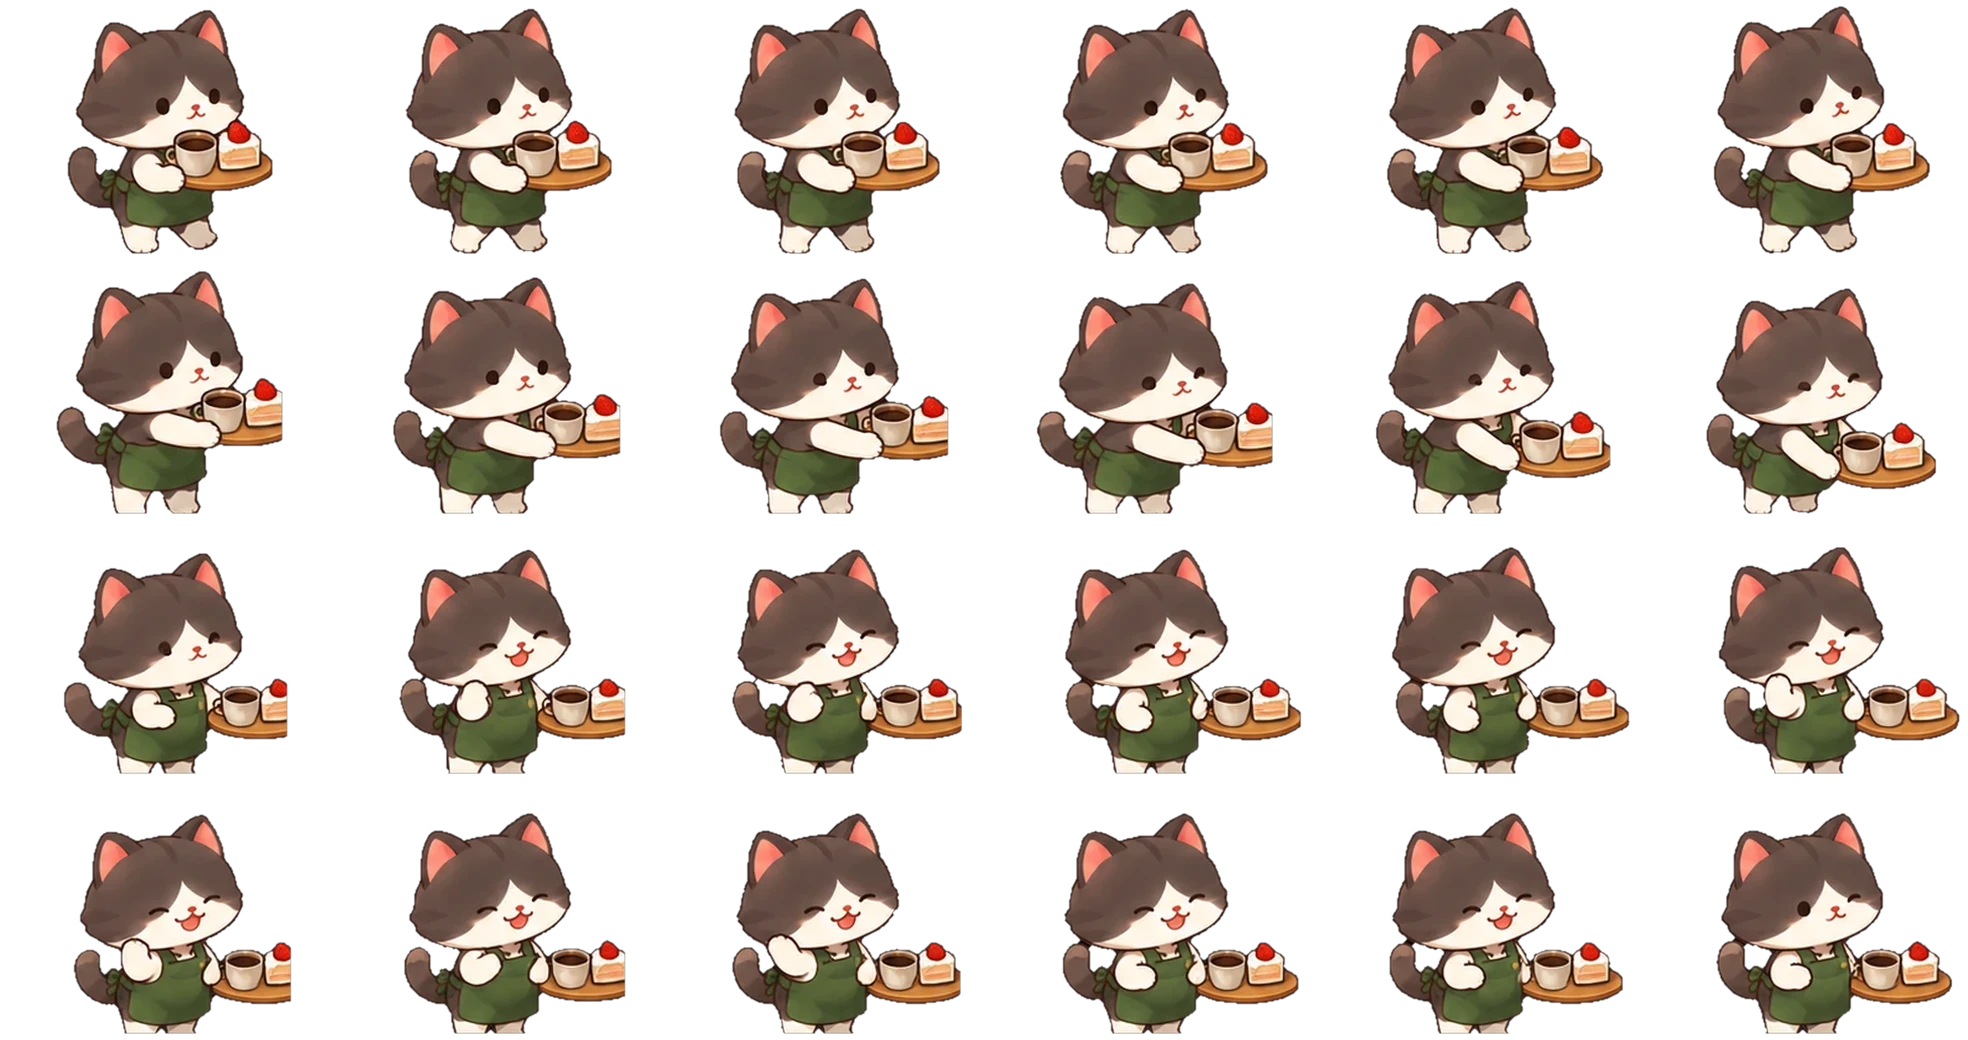
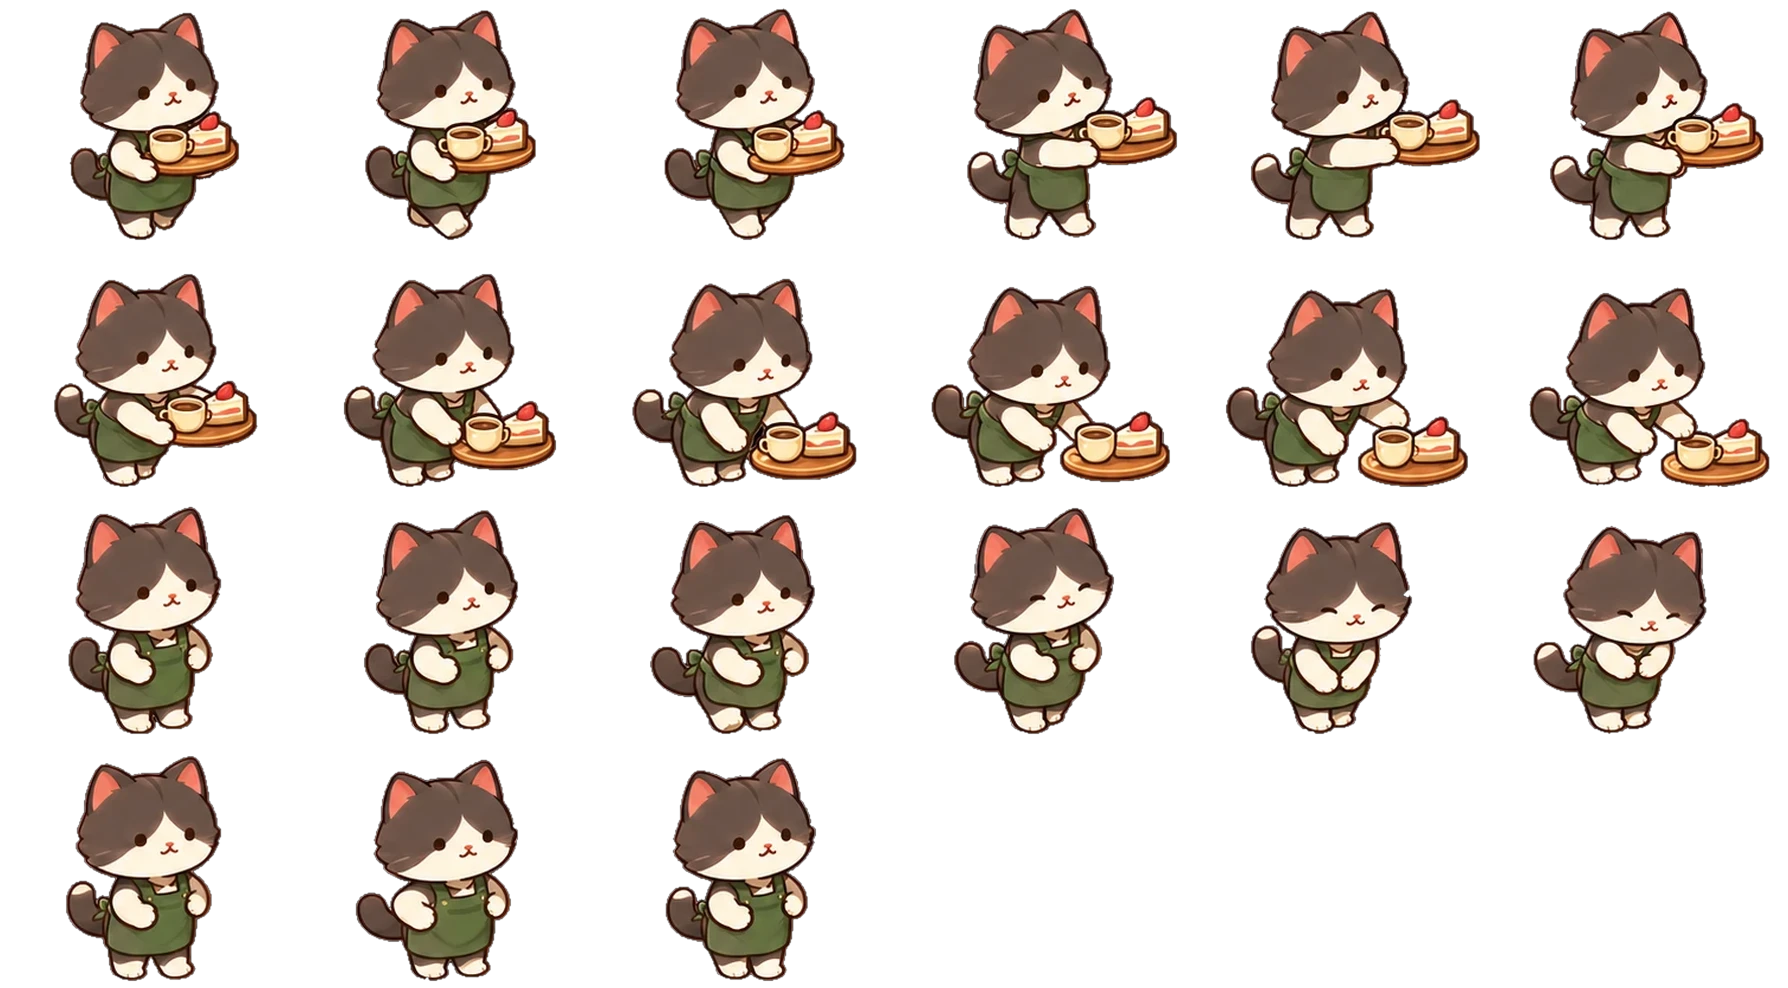
Waiter serving: new hand-over sheet (lower tray, put down, empty hands)
Claude-Session: https://claude.ai/code/session_012nmUwDLyP2qaqLbjtxBWJU

diff --git a/bakery-street-app/src/characters/sprites.js b/bakery-street-app/src/characters/sprites.js
@@ -19,7 +19,7 @@ export const SHEETS = {
   waiter: { frames: 56, cols: 10, w: 137, h: 164, crew: 'waiter', side: 24, sideEmpty: 34 },   // 0-7 tray walk (front), 8-15 tray walk (back), 16-23 empty-handed walk (front), 24-33 tray walk sideways (10-frame loop), 34-55 empty-handed walk sideways (22-frame loop); side frames face right
   chef_oven: { frames: 30, cols: 6, w: 384, h: 179, once: true },   // the chef puts the bread in the oven: one pass through 30 frames (progress = `hand`, 0..1), faces right, head on the centre line
   chef_coffee: { frames: 24, cols: 6, w: 179, h: 168, once: true },   // the chef makes a coffee: reaches for the lever, takes the cup, sips (one pass, progress = `hand`), faces right, head on the centre line
-  waiter_hand: { frames: 24, cols: 6, w: 205, h: 163, once: true },   // handing the tray over: one pass through 24 frames (progress = `hand`, 0..1), faces right   // 0-7 tray walk (front), 8-15 tray walk (back), 16-23 empty-handed walk (front), 24-33 tray walk sideways (10-frame loop), 34-55 empty-handed walk sideways (22-frame loop), 56-79 handing the tray over (one shot, 24 frames); side and hand frames face right   // 0-7 tray walk (front), 8-15 tray walk (back), 16-23 empty-handed walk (front), 24-33 tray walk sideways (10-frame loop), 34-55 empty-handed walk sideways (22-frame loop); side frames face right   // 0-7 tray walk (front), 8-15 tray walk (back), 16-23 empty-handed walk, 24-33 tray walk sideways (10-frame loop, faces right)
+  waiter_hand: { frames: 21, cols: 6, w: 186, h: 154, once: true },   // serving: lowers the tray to the table, puts it down, stands with empty hands (one pass through 21 frames, progress = `hand`), faces right
 };
 
 const SCALE = 0.9; // native sprite px -> design px (a street character ends up ~150 px tall; the cafe scales people up further, see PERSON_SCALE)

diff --git a/bakery-street-app/src/scene/interior-staff.js b/bakery-street-app/src/scene/interior-staff.js
@@ -15,7 +15,7 @@ const TOUR = ['counter', 'oven', 'counter2', 'coffee', 'storage', 'counter2'];
 const POST = { x: 190, y: WAITER_LANE_Y };                 // the waiter's post: the gap between the prep counter and the showcase, in front of the prep counter, clear of the queue spots (352..652)
 const OVEN_SEC = 1.8;                                       // the baker's put-it-in-the-oven animation (30 frames)
 const COFFEE_SEC = 2.2;                                     // the baker's make-a-coffee animation (24 frames: reach, take the cup, sip)
-const HAND_SEC = 1.1;                                       // time spent handing the order over
+const HAND_SEC = 1.3;                                       // time spent handing the order over
 
 class Walker {
   constructor(x, y, speed) { this.x = x; this.y = y; this.speed = speed; this.dir = 1; this.moving = false; this.target = null; this.wait = 1.5; this.t = 0; this.view = 'side'; }

diff --git a/bakery-street-app/scripts/make_one_shot.py b/bakery-street-app/scripts/make_one_shot.py
@@ -1,8 +1,8 @@
 """Builds a one-shot sheet (a 6-column grid in assets/game/characters/<name>.webp) from frames cut by extract_cat_walk.py (all on one common canvas, head centred).
 Row by row the body height is levelled (ChatGPT draws some rows slightly smaller), then everything is scaled to `--target-h` (the character's height in the game sheets)
 and the frames are placed with the head on the cell's centre line and the feet on one baseline.
-Usage: python3 scripts/make_one_shot.py <name> <frames_dir> --target-h 243 [--row 6] [--cols 6] [--fade-cut 44] [--head-x 158] [--no-fade 8,9]
-(--fade-cut N: a prop tip that the source page cut off with a straight vertical edge fades out over its last N source pixels instead of ending hard)"""
+Usage: python3 scripts/make_one_shot.py <name> <frames_dir> --target-h 243 [--row 6] [--cols 6] [--ref-h 191] [--fade-cut 44] [--head-x 158] [--no-fade 8,9]
+(--ref-h H: no row levelling, one scale for everything from the height H of an upright frame; --fade-cut N: a prop tip that the source page cut off with a straight vertical edge fades out over its last N source pixels instead of ending hard)"""
 import sys, glob, math
 import numpy as np
 from PIL import Image
@@ -25,8 +25,11 @@ if FADE:
     res = [(f, False) if i + 1 in keep else fade_cut(f) for i, f in enumerate(fr)]; print('faded frames', [i + 1 for i, (_, c) in enumerate(res) if c]); fr = [f for f, _ in res]
 H0 = [(lambda b: b[3] - b[1])(f.getbbox()) for f in fr]
 rowmed = [np.median(H0[i:i + row]) for i in range(0, len(fr), row)]
-ref = float(np.median(rowmed[:-1])) if len(rowmed) > 1 else rowmed[0]                  # the rows that agree with each other set the size
-ks = [target / ref * (ref / rowmed[i // row]) for i in range(len(fr))]
+if arg('--ref-h'):                                                                        # one common scale (poses with bending or jumping differ in height on purpose)
+    ks = [target / float(arg('--ref-h'))] * len(fr)
+else:
+    ref = float(np.median(rowmed[:-1])) if len(rowmed) > 1 else rowmed[0]                  # the rows that agree with each other set the size
+    ks = [target / ref * (ref / rowmed[i // row]) for i in range(len(fr))]
 W0, Hc = fr[0].size
 HX = float(arg('--head-x', W0 / 2))                                                       # where the head's centre line is on the source canvas (not the middle when the canvas was padded)
 Wc = int(math.ceil(2 * max(HX, W0 - HX) * max(ks))) + 8; Hcell = int(math.ceil(Hc * max(ks))) + 4

diff --git a/bakery-street-app/README.md b/bakery-street-app/README.md
@@ -231,3 +231,6 @@ E5 düzeltmesi: sayfada ekmek 8. ve 9. karelerde hücre kenarında yarım kesilm
 
 ### Şef: kahve hazırlama (E6)
 `chef_coffee.webp` (24 kare, 6 sütun, tek seferlik, sağa bakar, kafa ortada): kola uzanır, fincanı alır, yudumlar. Kahve makinesi bir ürüne başlayınca (`change`/`start`, istasyon kahve) şef kahve durağına varınca 2,2 sn oynar (fırın animasyonuyla aynı düzen: `pendingCoffee`/`coffeeT`). Sayfanın ortadaki satırlarında ayaklar kesikti (sayfada satırlar eşit aralıklı değil), ama şef tezgâhın arkasında durduğu için görünmez; son satırda (25-30) numaralar kareye yapışık olduğundan alınmadı. Kesim: `extract_cat_walk.py --whole --head-anchor`, birleştirme: `make_one_shot.py`.
+
+### Garson servis animasyonu (yeni sayfa)
+`waiter_hand.webp` yeni sayfayla değişti (21 kare, 6 sütun, tek seferlik, sağa bakar): tepsiyi masaya indirir, bırakır, boş elle selam durur (sayfanın 22-30. kareleri tepsiyi yeniden alıyor, kullanılmadı). Süre 1,3 sn (`HAND_SEC`). Eğilme kareleri doğal olarak kısa olduğundan `make_one_shot.py --ref-h` ile tek ortak ölçek kullanıldı (satır boyu eşitleme yok).
